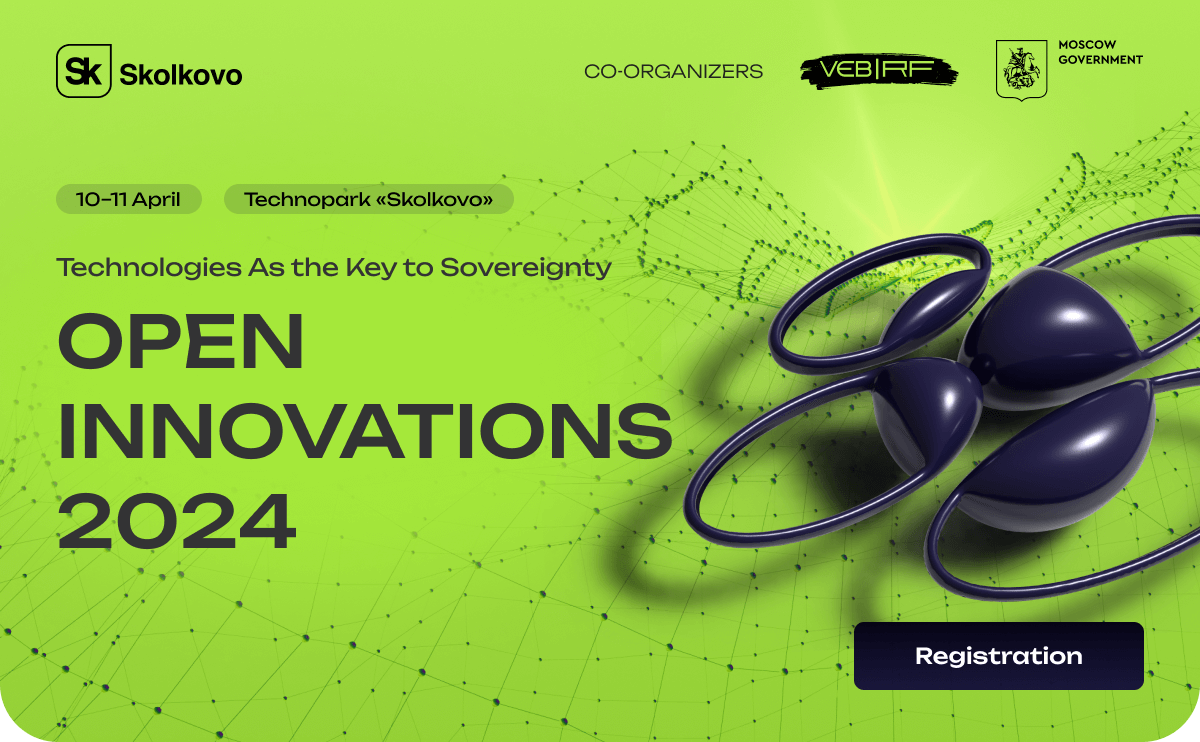
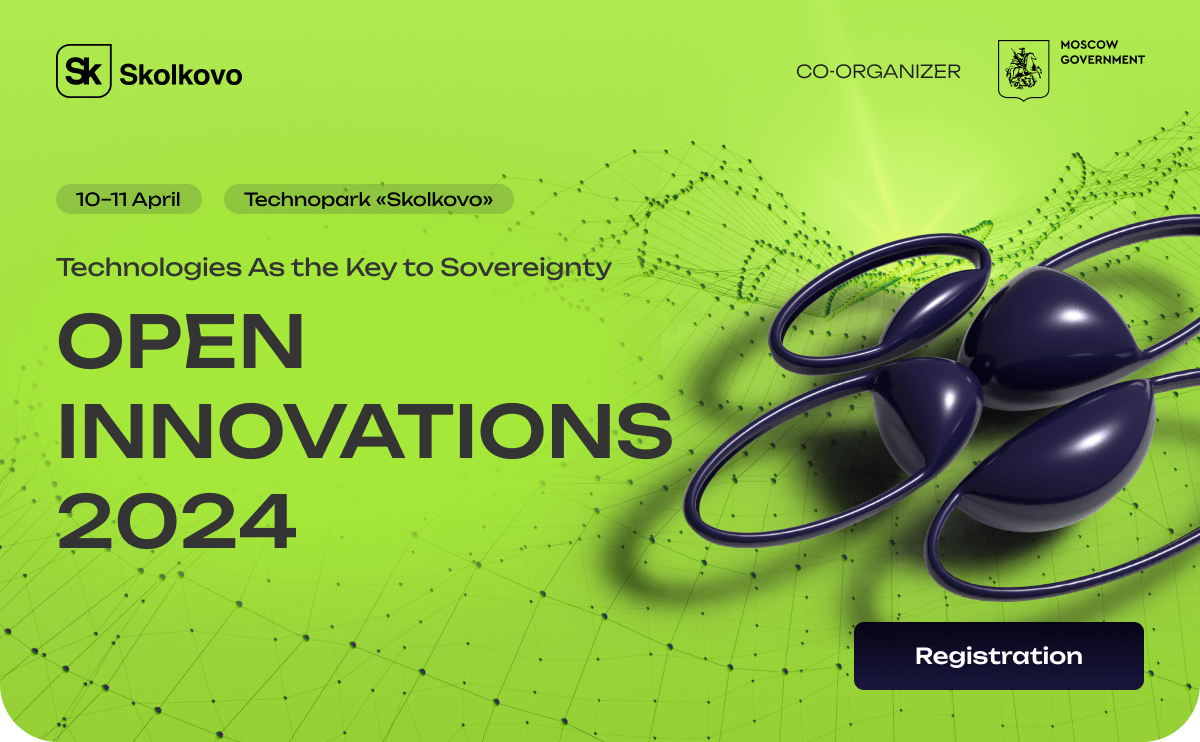
change open-innovations-2024-speakers

Changed region(s): [[0.4933, 0.062, 0.8017, 0.124], [0.8325, 0.031, 0.9558, 0.124]]

diff --git a/open-innovations-2024-speakers/Технологии - ключ к суверенитету-en.html b/open-innovations-2024-speakers/Технологии - ключ к суверенитету-en.html
@@ -555,146 +555,25 @@
                                     <table border="0" cellpadding="0" cellspacing="0" role="presentation" style="border-collapse:collapse;border-spacing:0px;">
                                         <tbody>
                                         <tr>
-                                            <td style="font-size: 0; word-break: break-word; padding: 0px 20px 23px;">
-                                                <div style="font-family: Unbounded, Helvetica, Arial, sans-serif; font-size: 22px; font-weight: 600; line-height: 130%; color: #fff; max-width: 539px; width: 100%;">CO-ORGANIZERS:</div>
+                                            <td align="center" style="font-size: 0; word-break: break-word; padding: 0px 20px 23px;">
+                                                <div style="font-family: Unbounded, Helvetica, Arial, sans-serif; font-size: 22px; font-weight: 600; line-height: 130%; color: #fff; max-width: 539px; width: 100%;">CO-ORGANIZER</div>
                                             </td>
                                         </tr>
-                                        </tbody>
-                                    </table>
-                                </td>
-                            </tr>
-                            </tbody>
-                        </table>
-                    </div>
-                    <!--[if mso | IE]></td></tr></table><![endif]-->
-                </td>
-            </tr>
-            </tbody>
-        </table>
-    </div>
-    <!--[if mso | IE]></td></tr></table><table align="center" border="0" cellpadding="0" cellspacing="0" class="" style="width:600px;background: #0E0B26; background-color: #0E0B26" width="600" bgcolor="#0E0B26"><tr><td style="line-height:0px;font-size:0px;mso-line-height-rule:exactly;"><![endif]-->
-    <div style="margin:0px auto;max-width:600px;">
-        <table align="center" border="0" cellpadding="0" cellspacing="0" role="presentation" style="width:100%;">
-            <tbody>
-            <tr>
-                <td style="direction:ltr;font-size:0px;text-align:center;">
-                    <!--[if mso | IE]><table role="presentation" border="0" cellpadding="0" cellspacing="0"><tr><td class="" style="vertical-align:top;width:272px;margin-bottom:13px;" ><![endif]-->
-                    <div class="mj-outlook-group-fix" style="font-size:0px;text-align:left;direction:ltr;display:inline-block;vertical-align:top;width:272px;margin-bottom:13px;">
-                        <table border="0" cellpadding="0" cellspacing="0" role="presentation" style="vertical-align:top;" width="100%">
-                            <tbody>
-                            <tr>
-                                <td align="center" style="font-size:0px;padding:0;word-break:break-word;">
-                                    <table border="0" cellpadding="0" cellspacing="0" role="presentation" style="border-collapse:collapse;border-spacing:0px;">
-                                        <tbody>
                                         <tr>
-                                            <td style="width:252px;">
-                                                <img alt="VEB RF" height="auto" src="https://cp.unisender.com/ru/user_file?resource=images&user_id=5608985&name=open-innovations-reload-content-img-13-en.png" style="border:0;display:block;outline:none;text-decoration:none;height:auto;width:100%;font-size:13px;color:#FFFFFF;" width="252" />
+                                            <td style="width:544px;padding:0 20px;">
+                                                <img alt="Moscow Goverment" height="auto" src="https://cp.unisender.com/ru/user_file?resource=images&user_id=5608985&name=open-innovations-speakers-goverment-en.png" style="border:0;display:block;outline:none;text-decoration:none;height:auto;width:100%;font-size:13px;color:#FFFFFF;" width="600" />
                                             </td>
                                         </tr>
-                                        </tbody>
-                                    </table>
-                                </td>
-                            </tr>
-                            </tbody>
-                        </table>
-                    </div>
-                    <!--[if mso | IE]></td><td class="" style="vertical-align:top;width:252px;" ><![endif]-->
-                    <div class="mj-outlook-group-fix" style="font-size:0px;text-align:left;direction:ltr;display:inline-block;vertical-align:top;width:252px;">
-                        <table border="0" cellpadding="0" cellspacing="0" role="presentation" style="vertical-align:top;" width="100%">
-                            <tbody>
-                            <tr>
-                                <td align="center" style="font-size:0px;padding:0;word-break:break-word;">
-                                    <table border="0" cellpadding="0" cellspacing="0" role="presentation" style="border-collapse:collapse;border-spacing:0px;">
-                                        <tbody>
                                         <tr>
-                                            <td style="width:252px;">
-                                                <img alt="Moscow Goverment" height="auto" src="https://cp.unisender.com/ru/user_file?resource=images&user_id=5608985&name=open-innovations-reload-content-img-14-en.png" style="border:0;display:block;outline:none;text-decoration:none;height:auto;width:100%;font-size:13px;color:#FFFFFF;" width="252" />
-                                            </td>
-                                        </tr>
-                                        </tbody>
-                                    </table>
-                                </td>
-                            </tr>
-                            </tbody>
-                        </table>
-                    </div>
-                    <!--[if mso | IE]></td></tr></table><![endif]-->
-                </td>
-            </tr>
-            </tbody>
-        </table>
-    </div>
-    <!--[if mso | IE]></td></tr></table><table align="center" border="0" cellpadding="0" cellspacing="0" class="" style="width:600px;background: #0E0B26; background-color: #0E0B26" width="600" bgcolor="#0E0B26"><tr><td style="line-height:0px;font-size:0px;mso-line-height-rule:exactly;"><![endif]-->
-    <div style="margin:0px auto;max-width:600px;">
-        <table align="center" border="0" cellpadding="0" cellspacing="0" role="presentation" style="width:100%;">
-            <tbody>
-            <tr>
-                <td style="direction:ltr;font-size:0px;text-align:center;">
-                    <!--[if mso | IE]><table role="presentation" border="0" cellpadding="0" cellspacing="0"><tr><td class="" style="vertical-align:top;width:600px;" ><![endif]-->
-                    <div class="mj-column-per-100 mj-outlook-group-fix" style="font-size:0px;text-align:left;direction:ltr;display:inline-block;vertical-align:top;width:100%;">
-                        <table border="0" cellpadding="0" cellspacing="0" role="presentation" style="vertical-align:top;" width="100%">
-                            <tbody>
-                            <tr>
-                                <td align="center" style="font-size:0px;padding:0;word-break:break-word;">
-                                    <table border="0" cellpadding="0" cellspacing="0" role="presentation" style="border-collapse:collapse;border-spacing:0px;">
-                                        <tbody>
-                                        <tr>
-                                            <td align="center" style="font-size: 0; word-break: break-word; padding: 33px 20px 22px;">
-                                                <div style="font-family: Unbounded, Helvetica, Arial, sans-serif; font-size: 22px; font-weight: 600; line-height: 130%; color: #fff; max-width: 539px; width: 100%;">
-                                                    GENERAL PARTNERS:
+                                            <td align="center" style="font-size: 0; word-break: break-word; padding: 46px 20px 28px;">
+                                                <div style="font-family: Unbounded, Helvetica, Arial, sans-serif; font-size: 22px; font-weight: 600; line-height: 1.3; color: #fff; max-width: 539px; width: 100%;">
+                                                    GENERAL PARTNER
                                                 </div>
                                             </td>
                                         </tr>
-                                        </tbody>
-                                    </table>
-                                </td>
-                            </tr>
-                            </tbody>
-                        </table>
-                    </div>
-                    <!--[if mso | IE]></td></tr></table><![endif]-->
-                </td>
-            </tr>
-            </tbody>
-        </table>
-    </div>
-    <!--[if mso | IE]></td></tr></table><table align="center" border="0" cellpadding="0" cellspacing="0" class="" style="width:600px;background: #0E0B26; background-color: #0E0B26" width="600" bgcolor="#0E0B26"><tr><td style="line-height:0px;font-size:0px;mso-line-height-rule:exactly;"><![endif]-->
-    <div style="margin:0px auto;max-width:600px;">
-        <table align="center" border="0" cellpadding="0" cellspacing="0" role="presentation" style="width:100%;">
-            <tbody>
-            <tr>
-                <td style="direction:ltr;font-size:0px;text-align:center;">
-                    <!--[if mso | IE]><table role="presentation" border="0" cellpadding="0" cellspacing="0"><tr><td class="" style="vertical-align:top;width:272px;margin-bottom:13px;" ><![endif]-->
-                    <div class="mj-outlook-group-fix" style="font-size:0px;text-align:left;direction:ltr;display:inline-block;vertical-align:top;width:272px;margin-bottom:13px;">
-                        <table border="0" cellpadding="0" cellspacing="0" role="presentation" style="vertical-align:top;" width="100%">
-                            <tbody>
-                            <tr>
-                                <td align="center" style="font-size:0px;padding:0;word-break:break-word;">
-                                    <table border="0" cellpadding="0" cellspacing="0" role="presentation" style="border-collapse:collapse;border-spacing:0px;">
-                                        <tbody>
                                         <tr>
-                                            <td style="width:252px;">
-                                                <img alt="ROSATOM" height="auto" src="https://cp.unisender.com/ru/user_file?resource=images&user_id=5608985&name=open-innovations-speakers-rosatom-en.png" style="border:0;display:block;outline:none;text-decoration:none;height:auto;width:100%;font-size:13px;color:#FFFFFF;" width="252" />
-                                            </td>
-                                        </tr>
-                                        </tbody>
-                                    </table>
-                                </td>
-                            </tr>
-                            </tbody>
-                        </table>
-                    </div>
-                    <!--[if mso | IE]></td><td class="" style="vertical-align:top;width:252px;" ><![endif]-->
-                    <div class="mj-outlook-group-fix" style="font-size:0px;text-align:left;direction:ltr;display:inline-block;vertical-align:top;width:252px;">
-                        <table border="0" cellpadding="0" cellspacing="0" role="presentation" style="vertical-align:top;" width="100%">
-                            <tbody>
-                            <tr>
-                                <td align="center" style="font-size:0px;padding:0;word-break:break-word;">
-                                    <table border="0" cellpadding="0" cellspacing="0" role="presentation" style="border-collapse:collapse;border-spacing:0px;">
-                                        <tbody>
-                                        <tr>
-                                            <td style="width:252px;">
-                                                <img alt="SBER" height="auto" src="https://cp.unisender.com/ru/user_file?resource=images&user_id=5608985&name=open-innovations-speakers-sber-en.png" style="border:0;display:block;outline:none;text-decoration:none;height:auto;width:100%;font-size:13px;color:#FFFFFF;" width="252" />
+                                            <td style="width:544px;padding:0 20px;">
+                                                <img alt="ROSATOM" height="auto" src="https://cp.unisender.com/ru/user_file?resource=images&user_id=5608985&name=open-innovations-speakers-rosatom-en.png" style="border:0;display:block;outline:none;text-decoration:none;height:auto;width:100%;font-size:13px;color:#FFFFFF;" width="600" />
                                             </td>
                                         </tr>
                                         </tbody>
